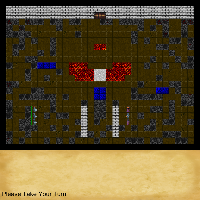
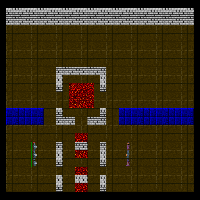
v0.2.2a - makeIcon fix
little code quality update and fixing the DevMenu.makeIcon() method.
updated the icons in GameData as well. Haven't tested in JRT filesystem yet. probably won't update releases until I work out a /mod/ folder for JRT filesystem. the /mod/ folder will hold stuff like the results of makeIcon, User made Maps, etc.

diff --git a/src/main/java/org/dionthorn/DevMenu.java b/src/main/java/org/dionthorn/DevMenu.java
@@ -1,6 +1,7 @@
 package org.dionthorn;
 
 import javafx.geometry.Bounds;
+import javafx.geometry.Rectangle2D;
 import javafx.scene.Group;
 import javafx.scene.Node;
 import javafx.scene.Scene;
@@ -36,25 +37,29 @@ import javafx.embed.swing.SwingFXUtils;
  */
 public class DevMenu extends Stage {
 
-    private final Run app;
+    // Global Variables
     public int SELECTED_TILE_ID = 0;
     public int SELECTED_TILE_SET_ID = 0;
     public int SELECTED_MAP_ID = 0;
     public boolean EDIT_MODE;
+
+    // Class Variables
+    private final Run app;
     private final GridPane devMenu;
     private final Text devTileID;
     private final Text devTileSetID;
     private final Text devMapID;
     private final Text devMapPath;
-    private ScrollPane charInfoPane;
     private final CheckBox isFire;
     private final CheckBox isImpassable;
-    private ImageView tileSetView;
     private final ComboBox<String> mapList = new ComboBox<>();
     private final ComboBox<String> stateList = new ComboBox<>();
+    private final Font smallFont = new Font("Arial", 10);
+    private final Font mediumFont = new Font("Arial", 16);
+    private ScrollPane charInfoPane;
+    private ImageView tileSetView;
     private ArrayList<Text> charInfo;
     private ArrayList<Text> memInfo;
-    private final Font arial = new Font("Arial", 10);
     private String[] folders;
     private String shortPath;
 
@@ -73,9 +78,9 @@ public class DevMenu extends Stage {
         Scene devRootScene = new Scene(devRoot, Run.SCREEN_WIDTH, Run.SCREEN_HEIGHT);
         BorderPane devMainUI = new BorderPane();
         devRoot.getChildren().add(devMainUI);
-        // create the devMenu GridPane object, this will be the main UI pane for menu
+        // create the devMenu GridPane object, this will be the main UI pane for the dev menu
         devMenu = new GridPane();
-        // devMenu.setGridLinesVisible(true); // testing purposes
+        // devMenu.setGridLinesVisible(true); // used for testing purposes
         devMenu.setHgap(10); // assign a 10 pixel gap between nodes
         devMenu.setVgap(10);
         devMainUI.setCenter(devMenu); // this is the primary node so center it
@@ -85,7 +90,7 @@ public class DevMenu extends Stage {
 
         // Row 0
         devTileSetID = new Text(String.format("TileSet ID: %s", SELECTED_TILE_SET_ID));
-        devTileSetID.setFont(new Font("Arial", 16));
+        devTileSetID.setFont(mediumFont);
         GridPane.setConstraints(devTileSetID, 0, 0);
         Button increaseTileSetID = new Button("+");
         GridPane.setConstraints(increaseTileSetID, 1, 0);
@@ -97,7 +102,7 @@ public class DevMenu extends Stage {
         // Row 1
 
         devMapID = new Text(String.format("Map ID: %s", SELECTED_MAP_ID));
-        devMapID.setFont(new Font("Arial", 16));
+        devMapID.setFont(mediumFont);
         GridPane.setConstraints(devMapID, 0, 1);
         Button increaseMapID = new Button("+");
         GridPane.setConstraints(increaseMapID, 1, 1);
@@ -109,7 +114,7 @@ public class DevMenu extends Stage {
         // Row 2
 
         devMapPath = new Text("null");
-        devMapPath.setFont(new Font("Arial", 10));
+        devMapPath.setFont(smallFont);
         GridPane.setConstraints(devMapPath, 0, 2);
         Button saveButton = new Button("Save Map");
         GridPane.setConstraints(saveButton, 1, 2, 2, 1);
@@ -122,7 +127,7 @@ public class DevMenu extends Stage {
         GridPane.setConstraints(loadMap, 1, 3, 2, 1);
         loadMap.setOnAction(event -> {
             for(Map toLoad: app.getGameState().getMaps()) {
-                String fullPath = Run.GAME_DATA_PATH + File.separator + "Maps" + File.separator + mapList.getSelectionModel().getSelectedItem();
+                String fullPath = Run.GAME_MAP_PATH + mapList.getSelectionModel().getSelectedItem();
                 if(fullPath.equals(toLoad.getPATH())) {
                     app.getGameState().setCurrentMap(toLoad);
                     Player temp = app.getGameState().getPlayerEntity();
@@ -196,7 +201,7 @@ public class DevMenu extends Stage {
                             temp.getAttack(), temp.getDefense(),
                             temp.getCritical()
                     ));
-                    tempText.setFont(arial);
+                    tempText.setFont(smallFont);
                     charInfo.add(tempText);
                 }
             }
@@ -234,7 +239,7 @@ public class DevMenu extends Stage {
         // Row 9
 
         devTileID = new Text(String.format("TileID: %s", SELECTED_TILE_ID));
-        devTileID.setFont(new Font("Arial", 16));
+        devTileID.setFont(mediumFont);
         GridPane.setConstraints(devTileID, 0, 9);
         // create the tileID + button
         Button increaseTileID = new Button("+");
@@ -505,9 +510,9 @@ public class DevMenu extends Stage {
      * icon names will always be {mapName}_Icon.png located in the /GameData/Art folder
      */
     public void makeIcon() {
-        String[] mapsFolder = app.getGameState().getCurrentMap().getPATH().split("\\\\");
+        String[] mapsFolder = app.getGameState().getCurrentMap().getPATH().split("/");
         String targetName = mapsFolder[mapsFolder.length - 1].split("\\.")[0] + "_Icon.png";
-        String[] artFiles = FileOpUtils.getFileNamesFromDirectory(Run.GAME_ART_PATH);
+        String[] artFiles = FileOpUtils.getFileNamesFromDirectory(Run.GAME_ART_PATH, Run.JRT);
         boolean found = false;
         for(String name: artFiles) {
             if(name != null && name.equals(targetName)) {
@@ -519,7 +524,9 @@ public class DevMenu extends Stage {
             Run.programLogger.log(Level.INFO, "Icon for this map already exists.");
         } else {
             Canvas toSaveCanvas = app.getCanvas();
+            Rectangle2D bound = new Rectangle2D(0, 0, Run.SCREEN_WIDTH, Run.SCREEN_MAP_HEIGHT);
             SnapshotParameters params = new SnapshotParameters();
+            params.setViewport(bound);
             params.setFill(Color.TRANSPARENT);
             Image toSaveImage = toSaveCanvas.snapshot(params, null);
             ImageView temp = new ImageView(toSaveImage);
@@ -527,8 +534,9 @@ public class DevMenu extends Stage {
             temp.setFitHeight(200);
             toSaveImage = temp.snapshot(null, null);
             try {
+                ImageIO.setUseCache(false);
                 ImageIO.write(SwingFXUtils.fromFXImage(toSaveImage, null), "png",
-                        new File(Run.GAME_ART_PATH + targetName)
+                        new File(URI.create(Run.GAME_ART_PATH + targetName))
                 );
                 Run.programLogger.log(Level.INFO,
                         "The new map icon can be found at: " + Run.GAME_ART_PATH + targetName

diff --git a/src/main/java/org/dionthorn/Run.java b/src/main/java/org/dionthorn/Run.java
@@ -14,7 +14,6 @@ import javafx.scene.input.MouseEvent;
 import javafx.scene.input.MouseDragEvent;
 import javafx.scene.paint.Color;
 import javafx.stage.Stage;
-
 import java.io.*;
 import java.net.URI;
 import java.net.URL;
@@ -79,7 +78,7 @@ public class Run extends Application {
      */
     private void newGame() {
         Entity.GEN_COUNT = 0;
-        for(String path: FileOpUtils.getFileNamesFromDirectory(GAME_MAP_PATH)) {
+        for(String path: FileOpUtils.getFileNamesFromDirectory(GAME_MAP_PATH, JRT)) {
             if(!path.equals(".gitattributes") && !path.contains("meta")) {
                 if(gameState != null) {
                     gameState.getMaps().add(new Map(GAME_MAP_PATH + (JRT ? "/" + path : path)));
@@ -280,6 +279,8 @@ public class Run extends Application {
                     gameState.setState(GameState.STATE.GAME);
                     gameState.getPlayerEntity().setMoveTurn(true);
                 }
+                // If you press escape in level selection mode it should prompt you if you 'really want to quit'.
+                // maybe a dedicated screen for this
             } else if(gameState.getCurrentState() == GameState.STATE.GAME_OVER) {
                 if(key.getCode() == KeyCode.ESCAPE) {
                     gameState = null;
@@ -356,7 +357,7 @@ public class Run extends Application {
                     } else if(mouseEvent.getButton() == MouseButton.SECONDARY) {
                         int releasedX = (int) (mouseEvent.getSceneX() / gameState.getCurrentMap().getTileSize()) + RenderUtil.anchorUL[0];
                         int releasedY = (int) (mouseEvent.getSceneY() / gameState.getCurrentMap().getTileSize()) + RenderUtil.anchorUL[1];
-                        if(releasedX <= DRAG_LOC[0] && !(releasedY <= DRAG_LOC[1])) {
+                        if(releasedX <= DRAG_LOC[0] && releasedY > DRAG_LOC[1]) {
                             for(int y = DRAG_LOC[1]; y < releasedY + 1; y++) {
                                 for(int x = releasedX; x < DRAG_LOC[0] + 1; x++) {
                                     MapTile[][] tempMap = gameState.getCurrentMap().getMapTiles();
@@ -365,7 +366,7 @@ public class Run extends Application {
                                     );
                                 }
                             }
-                        } else if(releasedY <= DRAG_LOC[1] && !(releasedX <= DRAG_LOC[0])) {
+                        } else if(releasedY <= DRAG_LOC[1] && releasedX > DRAG_LOC[0]) {
                             for(int y = releasedY; y < DRAG_LOC[1] + 1; y++) {
                                 for(int x = DRAG_LOC[0]; x < releasedX + 1; x++) {
                                     MapTile[][] tempMap = gameState.getCurrentMap().getMapTiles();

diff --git a/src/main/java/org/dionthorn/FileOpUtils.java b/src/main/java/org/dionthorn/FileOpUtils.java
@@ -7,14 +7,11 @@ import java.io.IOException;
 import java.net.URI;
 import java.nio.file.*;
 import java.util.ArrayList;
-import java.util.List;
 import java.util.logging.Level;
-
-import static java.nio.file.FileSystems.getFileSystem;
 
 /**
  * Dedicated class for static methods related to file operations
- * Please note this class references the Run.programLogger for displaying messages.
+ * Please note this class references the Run.programLogger for logging messages.
  * If you wish to use this class in another project simply replace those lines with your own Logger or with
  * System.err.println() calls or your preferred method.
  */
@@ -48,12 +45,12 @@ public class FileOpUtils {
      * @param targetFile the target file
      * @return a string array where each index is the name of a file in the directory at path
      */
-    public static String[] getFileNamesFromDirectory(URI targetFile) {
+    public static String[] getFileNamesFromDirectory(URI targetFile, boolean JRT) {
         ArrayList<String> fileNamesList = new ArrayList<>();
         String[] fileNames = new String[0];
         try {
             File[] files;
-            if(Run.JRT) {
+            if(JRT) {
                 Path path = Path.of(targetFile);
                 assert(Files.exists(path));
                 FileSystem jrtfs = FileSystems.getFileSystem(URI.create("jrt:/"));
@@ -67,12 +64,10 @@ public class FileOpUtils {
                 } catch(Exception e) {
                     e.printStackTrace();
                 }
-                files = new File(targetFile.getPath()).listFiles();
-            } else {
-                files = new File(targetFile.getPath()).listFiles();
             }
+            files = new File(targetFile.getPath()).listFiles();
             if(files != null) {
-                if(!Run.JRT) {
+                if(!JRT) {
                     fileNames = new String[files.length];
                     for(int i=0; i<files.length; i++) {
                         if(files[i].isFile()) {
@@ -80,10 +75,10 @@ public class FileOpUtils {
                         }
                     }
                 } else {
-                    Run.programLogger.log(Level.INFO, "Using jrt for files");
+                    Run.programLogger.log(Level.INFO, "Using JRT Filesystem");
                 }
             } else {
-                if(!Run.JRT) {
+                if(!JRT) {
                     Run.programLogger.log(Level.INFO, "No Files Found In Directory " + targetFile);
                 }
             }

diff --git a/src/main/java/org/dionthorn/Character.java b/src/main/java/org/dionthorn/Character.java
@@ -1,8 +1,6 @@
 package org.dionthorn;
 
 import javafx.scene.image.Image;
-
-import java.io.File;
 import java.util.logging.Level;
 
 /**
@@ -11,15 +9,15 @@ import java.util.logging.Level;
 public abstract class Character extends PhysicalEntity implements Drawable, Updateable {
 
     protected final String PATH;
-    protected TileSet spriteSheet;
+    protected final String name;
+    protected final TileSet spriteSheet;
+    protected final CharacterClass charClass;
     protected Image currentSprite;
     protected int tileSize;
-    protected CharacterClass charClass;
-    protected String name;
+    protected int lastAttackRoll = 0;
     protected double maxHP;
     protected double hp;
     protected double attack;
-    protected int lastAttackRoll = 0;
     protected double critical;
     protected double defense;
     protected boolean isAlive;

diff --git a/src/main/java/org/dionthorn/GameState.java b/src/main/java/org/dionthorn/GameState.java
@@ -11,14 +11,20 @@ import java.util.logging.Level;
  */
 public class GameState {
 
-    public enum STATE { MAIN_MENU, BATTLE, GAME, GAME_OVER, LEVEL_SELECTION, CHARACTER_STATUS, CHARACTER_CREATION }
+    public enum STATE {
+        MAIN_MENU, BATTLE,
+        GAME, GAME_OVER, GAME_WIN,
+        LEVEL_SELECTION,
+        CHARACTER_STATUS, CHARACTER_CREATION
+    }
 
-    private STATE currentState;
-    private Map currentMap;
     private final ArrayList<Map> maps;
     private final ArrayList<Entity> entities;
     private final ArrayList<Entity> playerTeam;
     private final ArrayList<Entity> enemyTeam;
+
+    private STATE currentState;
+    private Map currentMap;
     private Character attacker;
     private Character defender;
     private boolean nextTurn;

diff --git a/src/main/java/org/dionthorn/CharacterClass.java b/src/main/java/org/dionthorn/CharacterClass.java
@@ -1,7 +1,7 @@
 package org.dionthorn;
 
 /**
- * Abstract CharacterClass just a default template to make more distinct classes with such as Martial and Magic
+ * Abstract CharacterClass just a default template to make more distinct classes such as Martial and Magic
  * Has basic information about sprite types and animation sequences
  */
 public abstract class CharacterClass {
@@ -15,8 +15,8 @@ public abstract class CharacterClass {
     protected int perLevelCritical;
     protected int perLevelDefense;
     protected int deadTileID;
-    protected int[] attackAnimationSequence;
     protected int completedCycles = 0;
+    protected int[] attackAnimationSequence;
     protected String defaultSpriteAlly;
     protected String defaultSpriteEnemy;
 

diff --git a/src/main/java/org/dionthorn/Entity.java b/src/main/java/org/dionthorn/Entity.java
@@ -22,7 +22,8 @@ public abstract class Entity {
      * Default Entity Constructor will assign the entity a unique id then increment the GEN_COUNT that's it.
      */
     protected Entity() {
-        // everything is done in the variables above.
+        // UID assignment takes place upon construction as defined by UID declaration at the class level.
+        // It is then ++ after assignment, giving us a Unique Identification number for every entity.
     }
 
     /**
